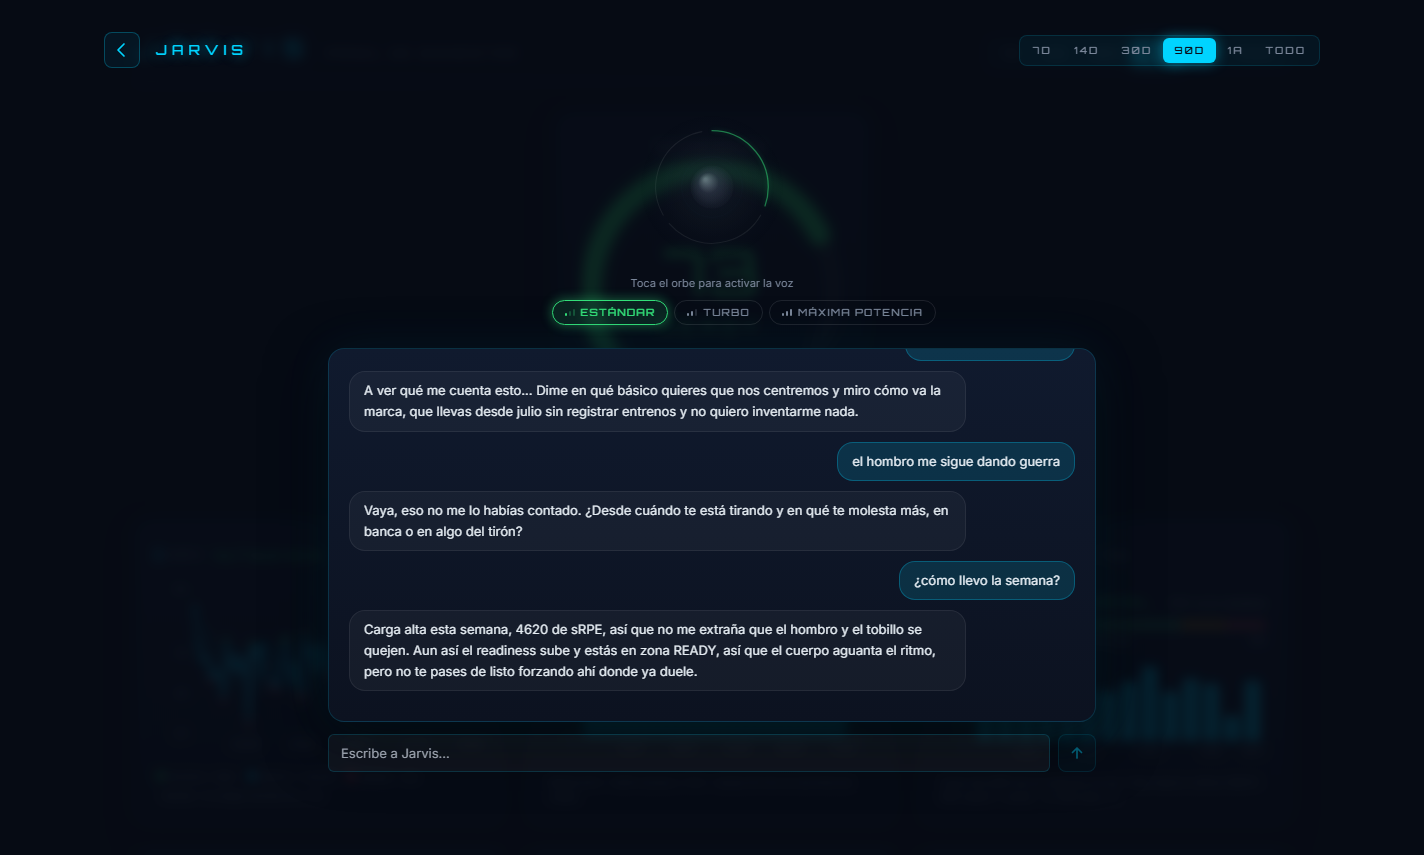
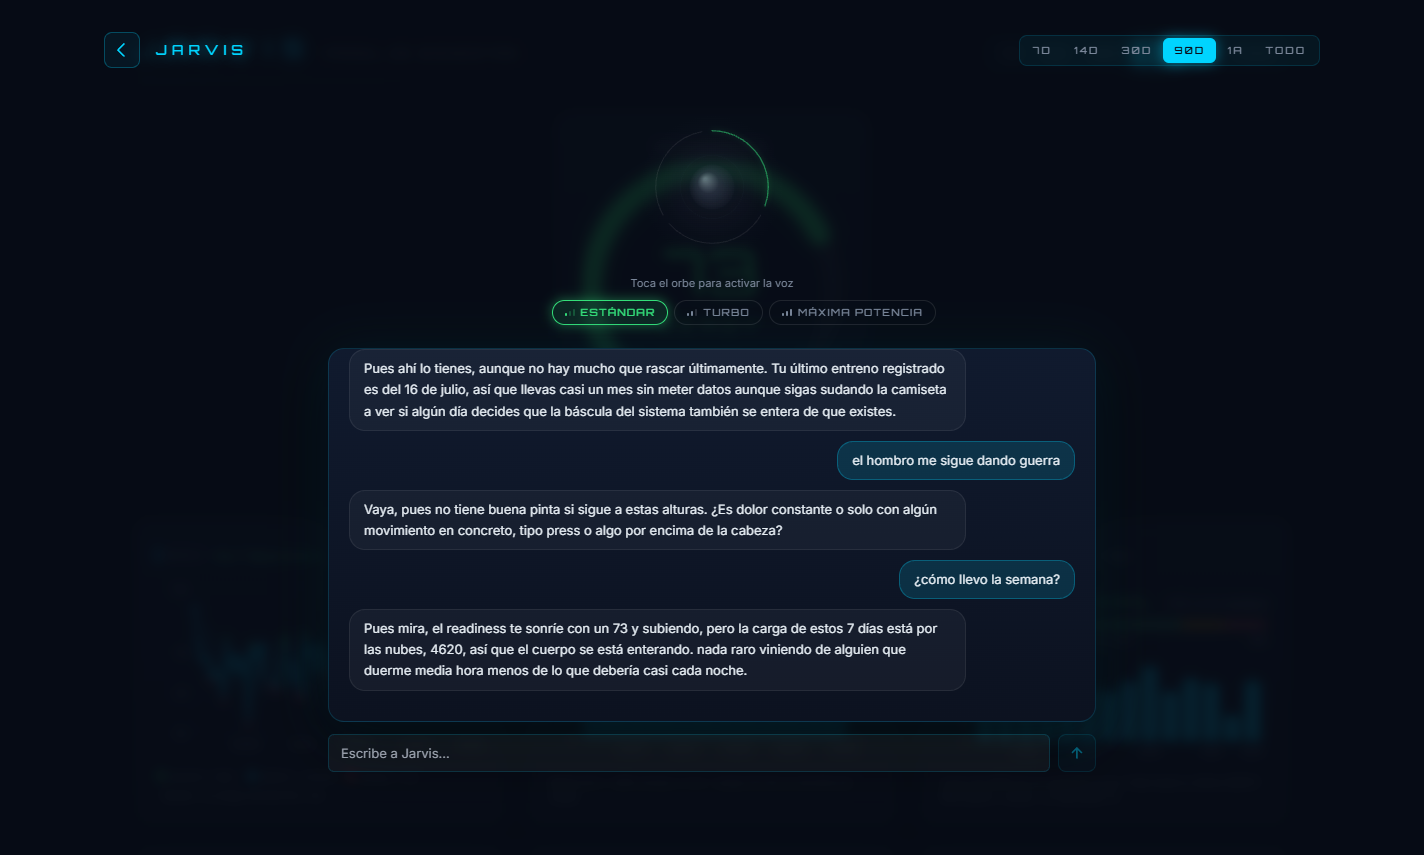
Retake the assistant screenshots
The first pair were caught mid-transition and had the readiness gauge showing
through the orb, because headless Chrome without a GPU never composites the
overlay's backdrop blur, so the dashboard behind it came through sharp and read
as a rendering glitch.

Both are now framed deliberately: the orb cropped to a panoramic shot mid-thought,
the conversation full width with nothing clipped. The caption follows what the
new exchange actually says.

diff --git a/README.md b/README.md
@@ -75,10 +75,12 @@ feels like talking to someone.
 | :---: | :---: |
 | ![Jarvis thinking](docs/jarvis-orbe.png) | ![Jarvis conversation](docs/jarvis-chat.png) |
 
-*Unedited output. Note what it does in the second one: it refuses to invent a number it
-doesn't have ("you haven't logged a session since July, and I'm not making anything up"),
-drops the banter the moment a shoulder gets mentioned, and ties the pain back to the
-training load it can actually see.*
+*Unedited output. Watch the second one. It owns the gap in the data rather than inventing
+around it — "your last logged session is 16 July, so you've gone nearly a month without
+entering anything, however much you've been sweating". It drops the banter the moment a
+sore shoulder comes up and asks a useful follow-up instead. And it closes by putting the
+real numbers together: readiness at 73 and rising, but a 4620 sRPE week on half an hour
+less sleep than he needs, most nights.*
 
 **Everything below is measured, not estimated.** The same long reply, end to end:
 
